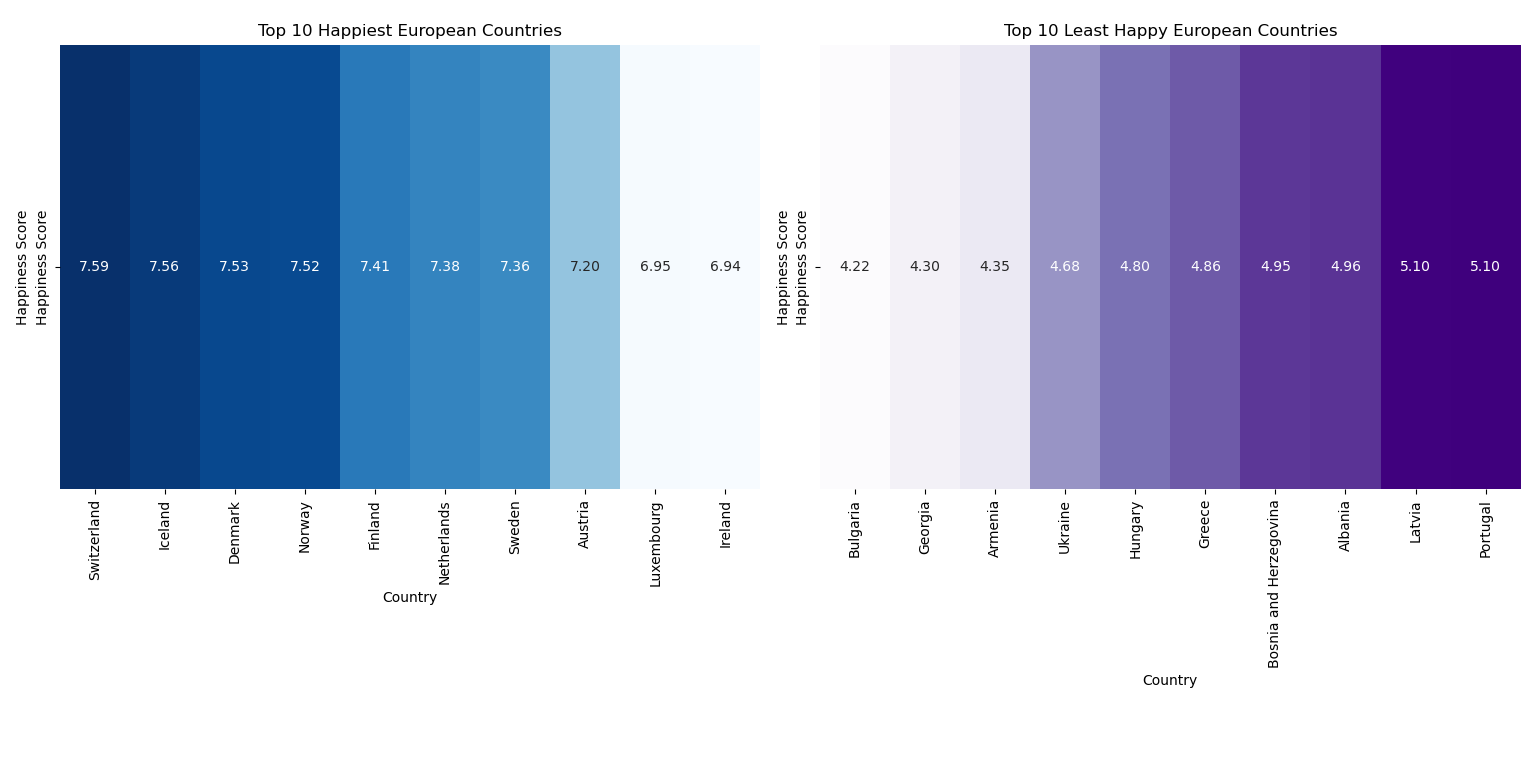
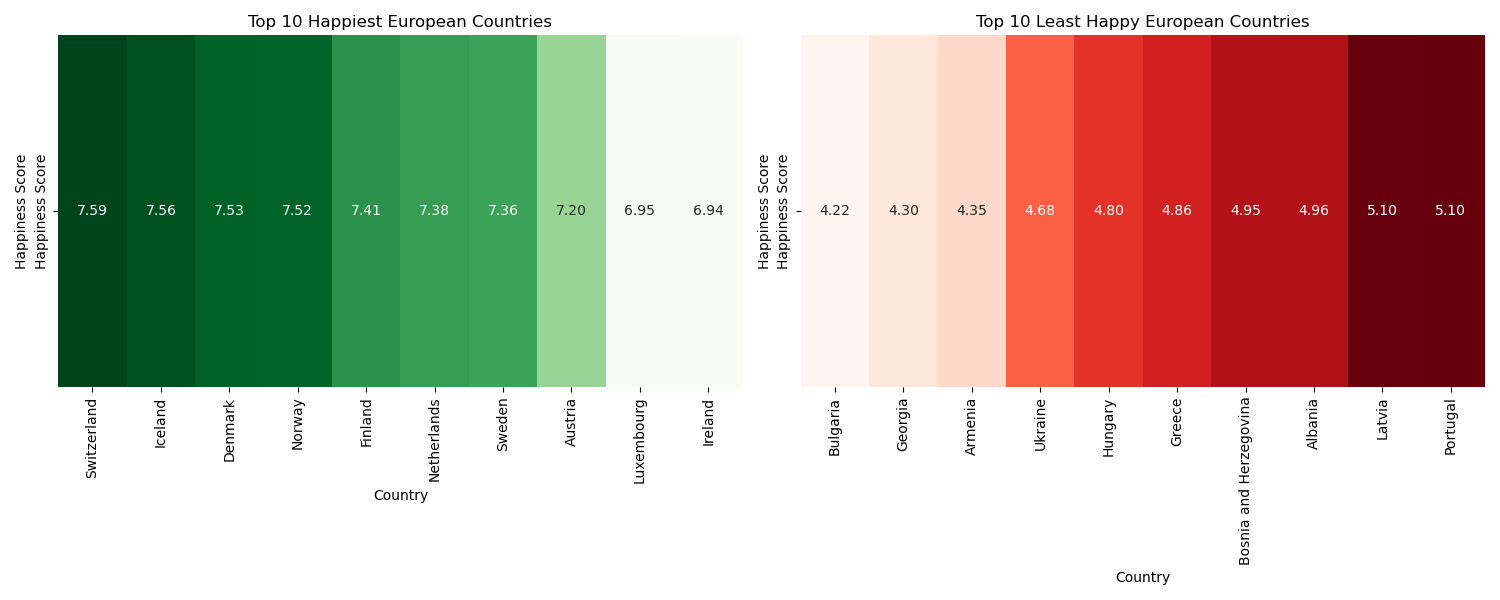
Changed tables colors

diff --git a/LifeExpectancy.py b/LifeExpectancy.py
@@ -6,7 +6,7 @@ import matplotlib.pyplot as plt
 file_path = 'csv/life_expectancy_by_country.csv'
 data = pd.read_csv(file_path)
 
-# Extract the relevant columns
+# Extract relevant columns
 data = data[['country_name', 'year', 'value']]
 
 # List of European countries
@@ -21,29 +21,27 @@ european_countries = [
     "Spain", "Sweden", "Switzerland", "Ukraine", "United Kingdom", "Vatican City"
 ]
 
-# Filter the data to include only European countries
+# Filter data for European countries
 european_data = data[data['country_name'].isin(european_countries)]
 
-# Get the latest year of data for each country
+# Get latest year of data for each country
 latest_data = european_data.loc[european_data.groupby('country_name')['year'].idxmax()]
 
-# Rank the top 10 best life expectancy
+# Rank top 10 best and worst life expectancies
 top_10_best = latest_data.nlargest(10, 'value')
-
-# Rank the top 10 worst life expectancy
 top_10_worst = latest_data.nsmallest(10, 'value')
 
-# Create Seaborn tables for visualization
+# Plotting
 plt.figure(figsize=(12, 6))
 
 # Top 10 best life expectancy
 plt.subplot(1, 2, 1)
-ax1 = sns.barplot(x='value', y='country_name', data=top_10_best, palette='Blues_d')
+ax1 = sns.barplot(x='value', y='country_name', data=top_10_best, palette='Greens_d')
 plt.title('Top 10 Countries with Best Life Expectancy')
 plt.xlabel('Life Expectancy')
 plt.ylabel('Country')
 
-# Add life expectancy values on top of the bars
+# Annotate bars with life expectancy values
 for index, value in enumerate(top_10_best['value']):
     ax1.text(value, index, f'{value:.1f}', va='center')
 
@@ -54,18 +52,18 @@ plt.title('Top 10 Countries with Worst Life Expectancy')
 plt.xlabel('Life Expectancy')
 plt.ylabel('Country')
 
-# Add life expectancy values on top of the bars
+# Annotate bars with life expectancy values
 for index, value in enumerate(top_10_worst['value']):
     ax2.text(value, index, f'{value:.1f}', va='center')
 
+# Adjust layout and show plot
 plt.tight_layout()
 plt.show()
 
-# Prepare lists for printing to a file
+# Save best and worst life expectancy lists to a file
 best_life_expectancy_countries = top_10_best['country_name'].tolist()
 worst_life_expectancy_countries = top_10_worst['country_name'].tolist()
 
-# Print the lists to a file
 with open('best_worst_life_expectancy.txt', 'w') as f:
     f.write("Top 10 Countries with Best Life Expectancy:\n")
     f.write(", ".join(best_life_expectancy_countries) + "\n\n")

diff --git a/Economy.py b/Economy.py
@@ -38,14 +38,14 @@ plt.figure(figsize=(14, 6))
 
 # Plot for the top 10 best countries
 plt.subplot(1, 2, 1)
-sns.barplot(data=top_10_best, x='Jobless Rate', y='Country', palette='viridis')
+sns.barplot(data=top_10_best, x='Jobless Rate', y='Country', palette="Greens_r")
 plt.title('Top 10 Best European Countries by Employment Rate')
 plt.xlabel('Jobless Rate (%)')
 plt.ylabel('Country')
 
 # Plot for the top 10 worst countries
 plt.subplot(1, 2, 2)
-sns.barplot(data=top_10_worst, x='Jobless Rate', y='Country', palette='magma')
+sns.barplot(data=top_10_worst, x='Jobless Rate', y='Country', palette="Reds")
 plt.title('Top 10 Worst European Countries by Employment Rate')
 plt.xlabel('Jobless Rate (%)')
 plt.ylabel('Country')
@@ -60,8 +60,8 @@ worst_jobless_rate_countries = top_10_worst['Country'].tolist()
 # Print the lists to a file
 with open('best_worst_jobless_rate.txt', 'w') as f:
     f.write("Top 10 Countries with Lowest Jobless Rate:\n")
-    f.write(", ".join(best_jobless_rate_countries) + "\n\n")
+    f.write("\n".join(best_jobless_rate_countries) + "\n\n")
     f.write("Top 10 Countries with Highest Jobless Rate:\n")
-    f.write(", ".join(worst_jobless_rate_countries) + "\n")
+    f.write("\n".join(worst_jobless_rate_countries) + "\n")
 
 print("Lists printed to 'best_worst_jobless_rate.txt'")

diff --git a/Happiness.py b/Happiness.py
@@ -25,14 +25,14 @@ least_happy_countries = happiness_data.sort_values(by='Happiness Score').head(10
 # Create a figure with two subplots
 fig, axes = plt.subplots(nrows=1, ncols=2, figsize=(15, 6))
 
-# Plot the happiest countries table
-sns.heatmap(happiest_countries[['Country', 'Happiness Score']].set_index('Country').T, annot=True, fmt=".2f", cmap="Blues", cbar=False, ax=axes[0])
+# Plot the happiest countries table with Greens palette
+sns.heatmap(happiest_countries[['Country', 'Happiness Score']].set_index('Country').T, annot=True, fmt=".2f", cmap="Greens", cbar=False, ax=axes[0])
 axes[0].set_title("Top 10 Happiest European Countries")
 axes[0].set_xlabel("Country")
 axes[0].set_ylabel("Happiness Score")
 
-# Plot the least happy countries table
-sns.heatmap(least_happy_countries[['Country', 'Happiness Score']].set_index('Country').T, annot=True, fmt=".2f", cmap="Purples", cbar=False, ax=axes[1])
+# Plot the least happy countries table with Reds palette
+sns.heatmap(least_happy_countries[['Country', 'Happiness Score']].set_index('Country').T, annot=True, fmt=".2f", cmap="Reds", cbar=False, ax=axes[1])
 axes[1].set_title("Top 10 Least Happy European Countries")
 axes[1].set_xlabel("Country")
 axes[1].set_ylabel("Happiness Score")

diff --git a/AirQuality.py b/AirQuality.py
@@ -31,13 +31,13 @@ worst_quality = latest_data.sort_values(by='AQI Value', ascending=False).head(10
 # Create a figure with two subplots
 fig, axes = plt.subplots(nrows=1, ncols=2, figsize=(15, 6))
 
-# Plot the best air quality table
+# Plot the best air quality table with Greens palette
 sns.heatmap(best_quality[['Country', 'AQI Value']].set_index('Country').T, annot=True, fmt=".0f", cmap="Greens", cbar=False, ax=axes[0])
 axes[0].set_title("Top 10 European Countries with Best Air Quality")
 axes[0].set_xlabel("Country")
 axes[0].set_ylabel("AQI Value")
 
-# Plot the worst air quality table
+# Plot the worst air quality table with Reds palette
 sns.heatmap(worst_quality[['Country', 'AQI Value']].set_index('Country').T, annot=True, fmt=".0f", cmap="Reds", cbar=False, ax=axes[1])
 axes[1].set_title("Top 10 European Countries with Worst Air Quality")
 axes[1].set_xlabel("Country")
